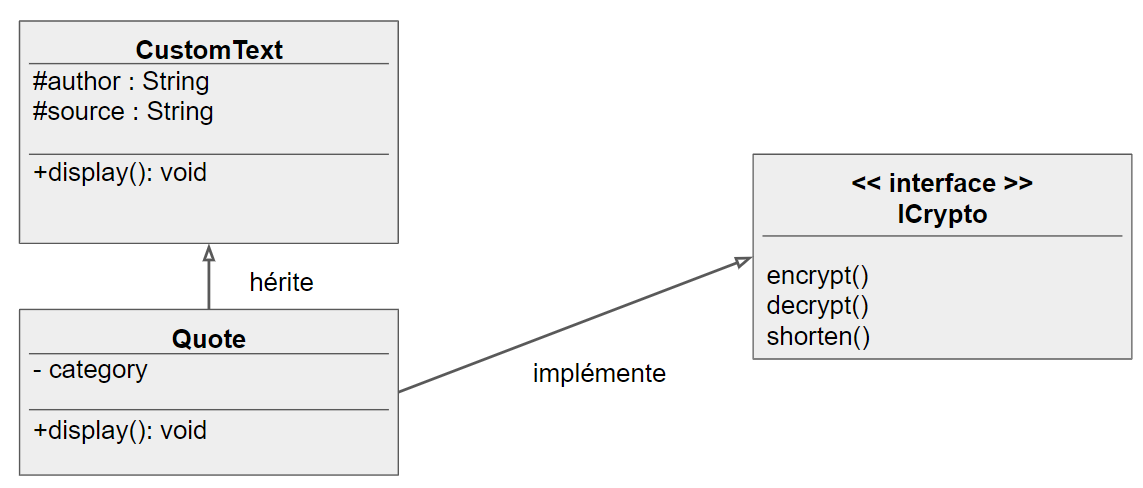
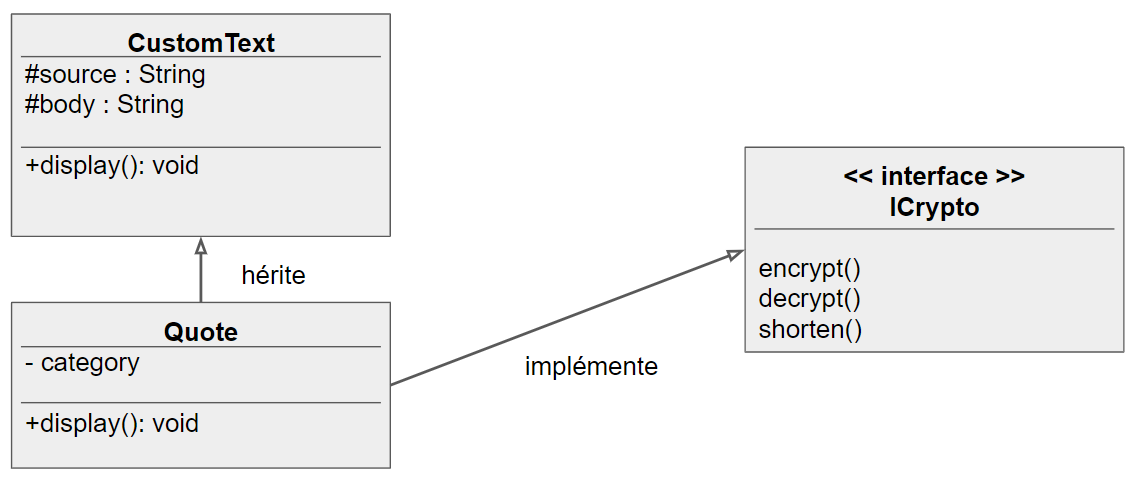
j3 end

Changed region(s): [[0.0, 0.0, 0.6124, 0.9667], [0.6124, 0.2807, 1.0, 0.7484], [0.4593, 0.7484, 0.5818, 0.8108]]

diff --git a/projects/cryptotext/README.md b/projects/cryptotext/README.md
@@ -7,10 +7,10 @@ Sur la base du diagramme de classes suivant:
 - Ecrire l'interface ICrypto dans un package project.crypto
 - Ecrire les classes CustomText et Quote dans un package project.crypto
 - Ecrire une classe de Test (package.test) dans laquelle vous devrez
-    - Créer des citations
-    - Lister des citations en affichant body, source et catégorie
-    - Lister les citations en affichant uniquement une version raccourcie du body
-    - Lister les citations en affichant que le body, dans sa version cryptée
+    - Créer des quotes (citations)
+    - Lister les quotes en affichant body, source et category
+    - Lister les quotes en affichant uniquement une version raccourcie du body
+    - Lister les quotes en affichant uniquement une version crypée du body
 
 ### Note
 L'algorithme de cryptage est au choix: substitution, inversion des lettres, ROT13 (https://rot13.com/), etc.  
